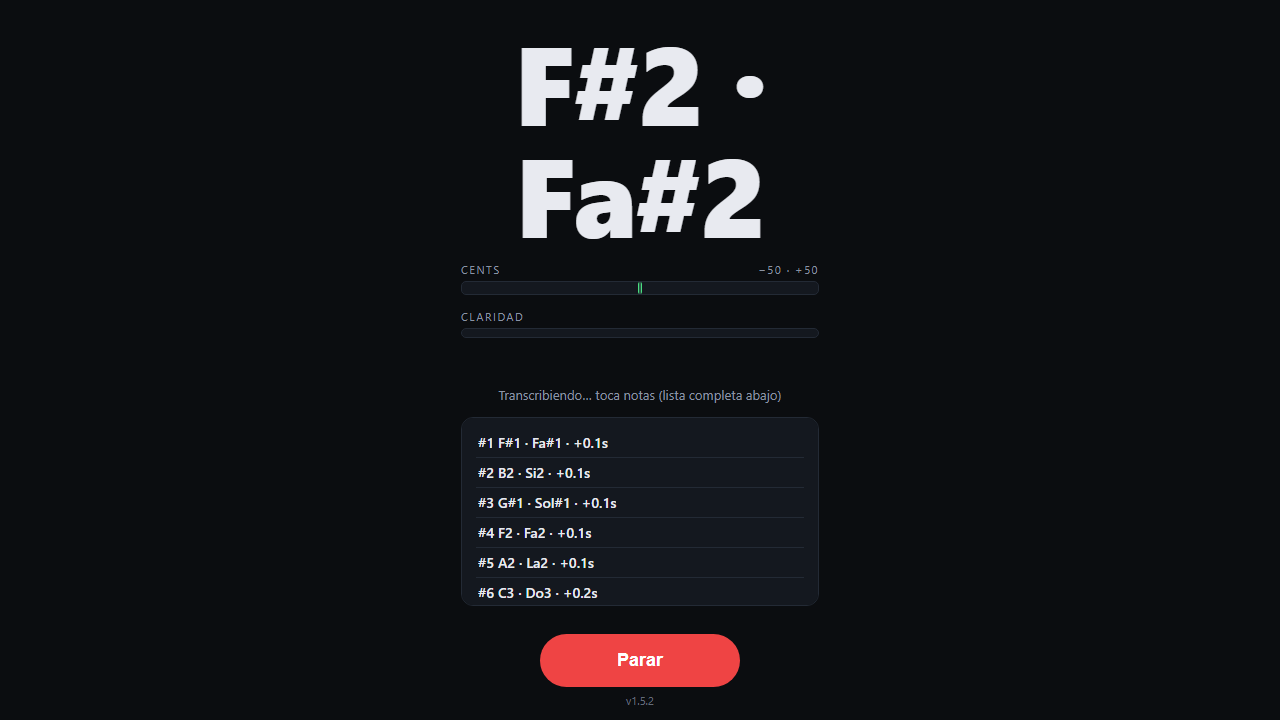
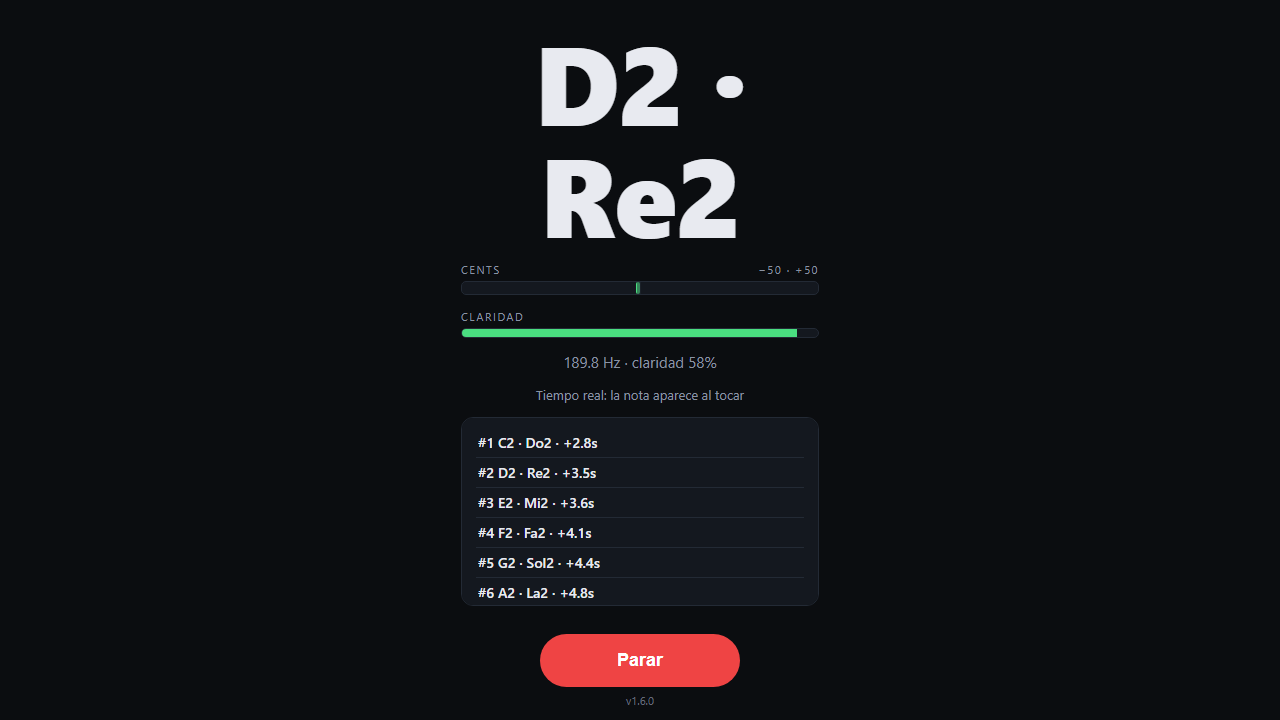
v1.6.1: gate relativo al ruido de fondo (calibración 1.2s al arrancar) + display siempre con la última nota

diff --git a/js/app.js b/js/app.js
@@ -11,7 +11,7 @@
   var MIDI_MAX = 96; // C7
   var FRAME_SKIP = 2; // procesar cada 2 frames de rAF (~30 Hz)
   var LOG_MAX = 8;
-  var VERSION = 'v1.6.0';
+  var VERSION = 'v1.6.1';
   var LATIN = ['Do', 'Do#', 'Re', 'Re#', 'Mi', 'Fa', 'Fa#', 'Sol', 'Sol#', 'La', 'La#', 'Si'];
   var LS_KEY = 'piano-game.source'; // R12: persistencia de la fuente elegida
   // R14: transcripción
@@ -44,6 +44,7 @@
   var txGateOpen = false; // R19: estado del gate (histéresis)
   var txLastRms = 0;      // RMS del frame anterior (score de re-ataque)
   var txEventCount = 0;   // filas de la lista en la sesión
+  var txGateThresholdDb = TX_GATE_DB; // umbral del gate (calibrado al arranque)
   var txPendingGroup = null; // R20: agrupación de notas con onset simultáneo
 
   // ---- Estado ----
@@ -382,9 +383,27 @@ function beginTranscribe(mediaStream) {
 
     elBtn.textContent = 'Parar';
     elBtn.classList.add('listening');
-    elHint.textContent = 'Tiempo real: la nota aparece al tocar';
+    elHint.textContent = 'Calibrando ambiente…';
     renderMidiStatus();
-    rafId = requestAnimationFrame(loop);
+    // v1.6.1: calibrar ruido de fondo 1.2s → gate relativo (no fijo -45)
+    var calBlocks = [];
+    var calEnd = performance.now() + 1200;
+    txGateThresholdDb = TX_GATE_DB; // fallback fijo mientras calibra
+    function calibrateStep() {
+      if (!analyser) return; // se paró
+      try {
+        analyser.getFloatTimeDomainData(buf);
+        calBlocks.push(window.Gate.rmsDbfs(buf));
+      } catch (e) { /* frame ruidoso */ }
+      if (performance.now() < calEnd) {
+        requestAnimationFrame(calibrateStep);
+      } else {
+        txGateThresholdDb = window.Gate.calibrateNoiseFloor(calBlocks) + 12;
+        elHint.textContent = 'Tiempo real · ruido ' + Math.round(txGateThresholdDb - 12) + 'dB';
+        rafId = requestAnimationFrame(loop);
+      }
+    }
+    requestAnimationFrame(calibrateStep);
   }
 
   // Loop tiempo real: cada rAF analiza la ventana actual con YIN (~60 mediciones/s)
@@ -399,10 +418,9 @@ function beginTranscribe(mediaStream) {
       for (var i = 0; i < buf.length; i++) rms += buf[i] * buf[i];
       rms = Math.sqrt(rms / buf.length);
       var db = 20 * Math.log10(rms + 1e-12);
-      if (db < TX_GATE_DB) { // R19: silencio → no analizar
+      if (db < txGateThresholdDb) { // R19: silencio → no analizar
         txGateOpen = false;
-        renderOff();
-        return;
+        return; // v1.6.1: el display SE QUEDA con la última nota
       }
       txGateOpen = true;
 

diff --git a/js/gate.js b/js/gate.js
@@ -14,12 +14,32 @@
   'use strict';
 
   var HYST_DB = 8;
+  var FLOOR_MIN_DB = -55; // piso absoluto: ambientes muertos no bajan el umbral de aquí
 
   function rmsDbfs(buffer) {
     var sum = 0;
     for (var i = 0; i < buffer.length; i++) sum += buffer[i] * buffer[i];
     var rms = Math.sqrt(sum / buffer.length);
     return 20 * Math.log10(rms + 1e-12);
+  }
+
+  /**
+   * calibrateNoiseFloor(blockDb[]) → threshold dB para el gate.
+   * Recibe RMS dBFS por bloque (medidos durante la calibración de arranque).
+   * Toma el percentil 90 (tolera picos aislados del ambiente) y le suma margen;
+   * nunca baja de FLOOR_MIN_DB.
+   */
+  function calibrateNoiseFloor(blockDb) {
+    if (!blockDb || blockDb.length === 0) return FLOOR_MIN_DB;
+    var sorted = blockDb.slice().sort(function (a, b) { return a - b; });
+    // dB es logarítmico: promedio aritmético de dB sobre-pondera los picos.
+    // Usar MEDIANA (percentil 50): la mayoría de los bloques de calibración
+    // son puro ruido de fondo, los picos son minoría.
+    var mid = Math.floor(sorted.length / 2);
+    var median = sorted.length % 2
+      ? sorted[mid]
+      : (sorted[mid - 1] + sorted[mid]) / 2;
+    return Math.max(median, FLOOR_MIN_DB);
   }
 
   /**
@@ -49,6 +69,8 @@
     decide: decide,
     isOpen: isOpen,
     rmsDbfs: rmsDbfs,
-    HYST_DB: HYST_DB
+    calibrateNoiseFloor: calibrateNoiseFloor,
+    HYST_DB: HYST_DB,
+    FLOOR_MIN_DB: FLOOR_MIN_DB
   };
 });

diff --git a/test/gate.test.js b/test/gate.test.js
@@ -61,3 +61,17 @@ test('G5: buffer de puros ceros → bloquea sin NaN', () => {
   assert.strictEqual(st.passed, false);
   assert.strictEqual(Number.isFinite(st.db), true, `db=${st.db}`);
 });
+
+test('15: calibrateNoiseFloor — mediana de bloques + piso mínimo', () => {
+  // 20 bloques de ruido -50 y 3 picos -25: la mediana debe dar el ruido de fondo
+  const noise = [];
+  for (let i = 0; i < 20; i++) noise.push(-50);
+  noise[2] = -25; noise[10] = -25; noise[18] = -25;
+  const r = Gate.calibrateNoiseFloor(noise);
+  assert.ok(Math.abs(r - (-50)) < 1, 'mediana de 20 bloques = -50, dio ' + r);
+  // piso absoluto: ambiente muerto (-120) no baja el umbral de -55
+  const dead = [];
+  for (let i = 0; i < 20; i++) dead.push(-120);
+  assert.strictEqual(Gate.calibrateNoiseFloor(dead), -55);
+});
+

diff --git a/index.html b/index.html
@@ -332,9 +332,9 @@
     <span id="version"></span>
   </footer>
 
-  <script src="js/pitch.js?v=1.6.0"></script>
-  <script src="js/hold.js?v=1.6.0"></script>
-  <script src="js/eventstream.js?v=1.6.0"></script>
-  <script src="js/app.js?v=1.6.0"></script>
+  <script src="js/pitch.js?v=1.6.1"></script>
+  <script src="js/hold.js?v=1.6.1"></script>
+  <script src="js/eventstream.js?v=1.6.1"></script>
+  <script src="js/app.js?v=1.6.1"></script>
 </body>
 </html>
